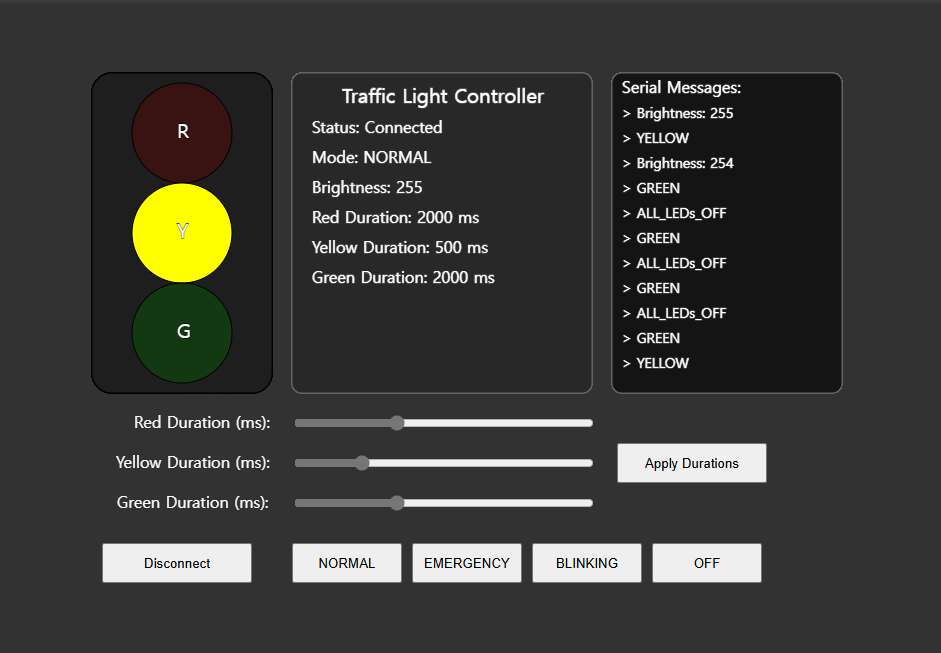
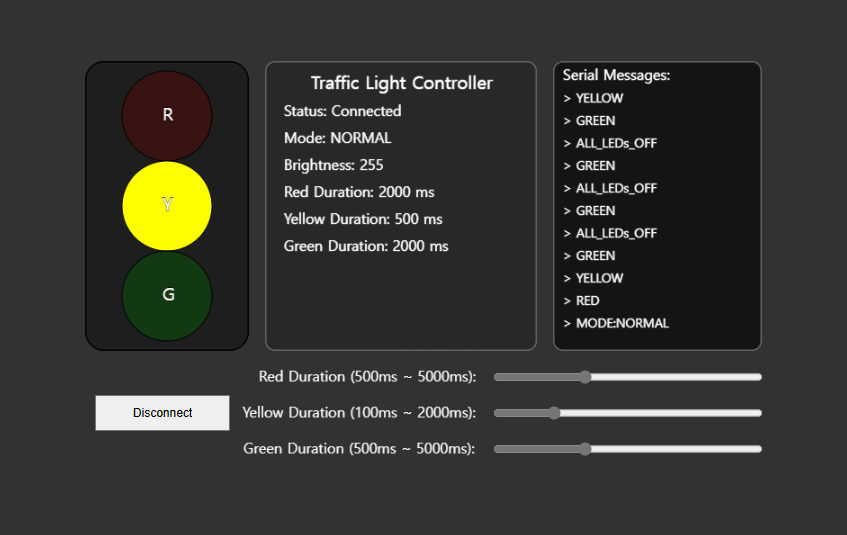
update README.md

Changed region(s): [[0.0921, 0.0897, 0.9209, 0.8972], [0.1842, 0.1794, 0.2149, 0.2393], [0.2456, 0.2093, 0.2763, 0.2393]]

diff --git a/README.md b/README.md
@@ -14,14 +14,13 @@
 ### 웹 인터페이스 (p5.js)
 - **실시간 상태 표시**: 신호등의 현재 상태를 시각적으로 보여줍니다.
 - **신호등 설정 변경**: 각 신호 지속 시간을 조절할 수 있습니다.
-- **모드 변경**: 모드를 원격으로 변경할 수 있습니다.
 - **시리얼 메시지 로그**: 아두이노와 주고받는 모든 메시지를 실시간으로 표시합니다.
 
 ## 하드웨어 구성
 ![하드웨어 구성](/image_circuit.png)
 ### 회로 구성 상세
 - **LED**: 빨간색, 노란색, 초록색 LED (PWM 핀 9, 10, 11에 연결)
-  - LED는 각 핀에서 **디지털 출력 High(5V)** 일 때 켜지도록 구성
+  - LED는 각 핀에서 **디지털 출력 High** 일 때 켜지도록 구성
   - LED 양극(+)을 디지털 핀에 연결, 음극(-)을 220Ω 저항을 통해 GND에 연결
 
 - **버튼**: 
@@ -37,17 +36,6 @@
   - 가변저항 양끝은 5V와 GND에 연결
   - 가변저항 중간 단자는 아날로그 핀 A0에 연결
   - 아날로그 값 0-1023을 LED 밝기 0-255로 매핑
-
-### 신호 상태 요약
-| 컴포넌트 | 기본 상태 | 액티브 상태 | 풀업/풀다운 | 핀 모드 |
-|---------|----------|------------|------------|---------|
-| LED (Red) | LOW (0V) | HIGH (5V) | 해당 없음 | OUTPUT |
-| LED (Yellow) | LOW (0V) | HIGH (5V) | 해당 없음 | OUTPUT |
-| LED (Green) | LOW (0V) | HIGH (5V) | 해당 없음 | OUTPUT |
-| 비상 모드 버튼 | HIGH (5V) | LOW (0V) | 풀업 | INPUT_PULLUP |
-| 깜빡임 모드 버튼 | HIGH (5V) | LOW (0V) | 풀업 | INPUT_PULLUP |
-| ON/OFF 토글 버튼 | HIGH (5V) | LOW (0V) | 풀업 | INPUT_PULLUP |
-| 가변저항 | 0~5V (가변) | 해당 없음 | 해당 없음 | INPUT |
 
 ## 소프트웨어 구성
 
@@ -84,5 +72,4 @@
 ![웹 인터페이스 사용](/image_web.png)
 1. p5.js 웹 인터페이스를 실행합니다.
 2. "Connect to Arduino" 버튼을 클릭하여 아두이노와 연결합니다.
-3. 슬라이더를 사용하여 각 신호의 지속 시간을 조절하고 "Apply Durations" 버튼을 클릭합니다.
-4. 모드 버튼을 클릭하여 신호등 모드를 변경합니다.
+3. 슬라이더를 사용하여 각 신호의 지속 시간을 조절합니다.
